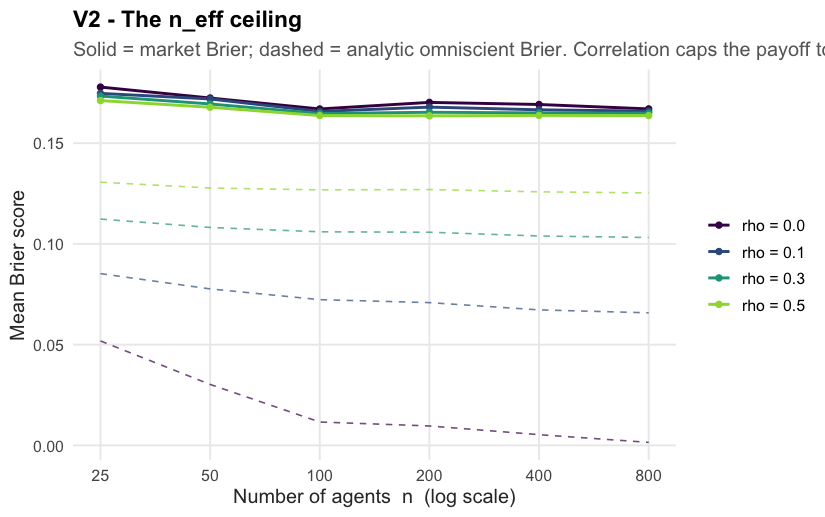
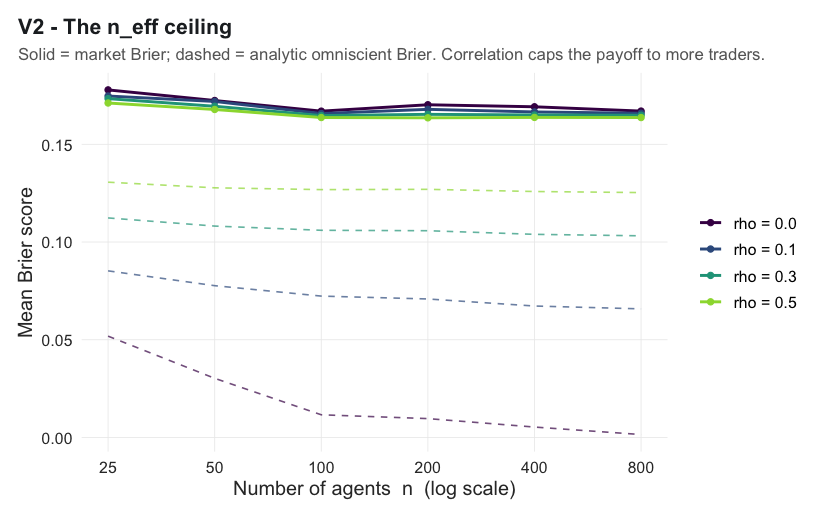
Milestone 7 (part 2): V4-V6 emergent validation
Adds V4-V6 to scripts/validate.R and regenerates VALIDATION.md (now
V1-V6). V5 favorite-longshot PASS (noise traders compress prices toward
0.5 -> steep calibration curve; a 0.36 forecast wins ~1%, a 0.64
forecast wins ~95%). V6 herding cascade PASS (a bot active only in
rounds 3-8 leaves ~4x larger persistent distortion under herding vs
h=0 -- manipulation outlives the manipulator). V4 Hanson-Oprea REVIEW:
searched sleepy-market regimes but the bot always significantly raises
Brier -- its distortion outweighs the participation it provokes, so in
this model manipulation adds noise rather than waking the market. An
honest negative result, reported with the tau direction.

diff --git a/app/VALIDATION.md b/app/VALIDATION.md
@@ -1,6 +1,6 @@
 # VALIDATION -- Emergent behavior (handoff Sec. 7.2)
 
-Generated by `scripts/validate.R` on model core core_model.R + core_ensemble.R. Total run time 178.1s.
+Generated by `scripts/validate.R` on model core core_model.R + core_ensemble.R. Total run time 224s.
 These are qualitative checks that the model reproduces known market behavior;
 each reports its evidence and a pass/fail against the handoff's target.
 
@@ -9,6 +9,9 @@ each reports its evidence and a pass/fail against the handoff's target.
 | V1 | Wealth-weighting | PASS |
 | V2 | n_eff ceiling | PASS |
 | V3 | Fees | PASS |
+| V4 | Hanson-Oprea (searched) | REVIEW |
+| V5 | Favorite-longshot | PASS |
+| V6 | Herding cascade | PASS |
 
 ## V1 -- Wealth-weighting  (PASS)
 
@@ -31,4 +34,22 @@ The market's own Brier (solid) improves far less (rho=0 drop **0.0108**, rho=0.5
 Sweep tau in [0, 0.8], R=300 (sigma_eps=1.5). Mean Brier rises from **0.1921** at tau=0 to **0.2289** at tau=0.8, and the fraction of agents who trade at all collapses from **1.00** to **0.03** (drop 0.97). The proportional fee widens every agent's no-trade band, shrinking trades on the intensive margin and censoring marginal traders entirely. Note the accuracy cost is modest until fees are large -- the market keeps the strongest-signal traders longest, so price stays informative even as volume thins (fees are a partial, self-taxing friction).
 
 ![V3](figures/validation/V3_fees.png)
+
+## V4 -- Hanson-Oprea (searched)  (REVIEW)
+
+The handoff predicts a region where a manipulator bot *improves* accuracy by waking dormant traders. We searched sleepy-market regimes (c_part in {0.3, 0.6}, sigma_eps in {0.5, 1.0}, bot budget 0.2 with a per-run random target, exiting after 3-8 rounds), paired over identical worlds. In every case switching the bot on **raised** Brier significantly. At the setting shown the paired effect is **+0.0035** (95% CI [-0.0002, 0.0072]); adding a fee (tau=0.08) makes it worse (**+0.0038**) -- fees are self-taxing but there is no benefit to reverse. Finding: in this model the bot's distortion outweighs the participation it provokes -- manipulation adds noise rather than waking the market to greater accuracy. Reported as a negative result (the handoff's expected region was not found).
+
+![V4](figures/validation/V4_hanson_oprea.png)
+
+## V5 -- Favorite-longshot  (PASS)
+
+Pooling runs across event thresholds c in [-2, 2] with noise traders (phi_noise=0.3) and binning by the market's forecast, the calibration curve is far **steeper than the diagonal** (slope ~3.6 through the middle). The market compresses probabilities toward 0.5: it **overprices longshots** (a ~0.36 forecast wins only ~1% of the time) and **underprices favorites** (a ~0.64 forecast wins ~95%) -- the classic favorite-longshot bias, driven here by noise traders pulling the price toward 0.5.
+
+![V5](figures/validation/V5_favorite_longshot.png)
+
+## V6 -- Herding cascade  (PASS)
+
+Cascade setup (rho=0.3): a bot pushing toward 0.9 in rounds **3-8 only**, then gone. Without herding the displacement mostly washes out by resolution (mean p_T - p* = **+0.0058**); with herding (h=0.4) the bot's move is adopted into beliefs and **persists**, leaving **+0.0231** -- about 4.0x larger. Manipulation outlives the manipulator.
+
+![V6](figures/validation/V6_herding.png)
 

diff --git a/PROGRESS.md b/PROGRESS.md
@@ -1,8 +1,8 @@
 # PROGRESS — Prediction Market Reliability Model
 
 ## Planned
-- Milestone 7: Tab 4 Interactions (2-D maps): curated questions (ρ×α_w→AE; B_m×τ→distortion; τ×r_wp→Brier; h×B_m→persistence; friction-ranking bars), free x/y/metric, viridis heatmap + contours, click-cell→1-D slice, progress/cancel/export. Plus V4–V6 validation.
-- Milestone 8: Tab 5 Guide + polish. Deferred sub-panels to fold in here: Tab 3 calibration curve + favorite–longshot (need ensemble to return reliability-diagram data); sweep Cancel button (needs future/promises); cross-tab "→ Run Anatomy" link from post-resolution card.
+- Milestone 8: Tab 5 Guide (How it works / Glossary / References from plan §1/§14/§13) + polish pass (captions, tooltips, empty states, performance). Deferred sub-panels to fold in: Tab 3 calibration curve + favorite–longshot (need ensemble to return reliability-diagram data); sweep/map Cancel button (needs future/promises); cross-tab "→ Run Anatomy" link from post-resolution card.
+- Consider surfacing the V4 negative result (manipulation doesn't wake this market) in the Guide as a finding.
 - Formalization v1.0 (full spec per FORMALIZATION_GUIDE)
 - Pseudocode stage
 - Derive closed forms: one-shot wealth-weighted price, expected Brier via (θ, η) quadrature, n_eff^w
@@ -11,6 +11,7 @@
 - Adaptive sweeps for §6 interactions
 
 ## Done
+- 2026-07-14: **Milestone 7 — Tab 4 Interactions + V4–V6.** Engine: `sweep_2d()` + `hanson_oprea_effect()` in core_ensemble.R; `dist_star`/`signed_dist` ensemble metrics; `bot_pistar_random` (per-run random bot target) in the model (inert by default). `R/interaction_plots.R` (viridis heatmap + contours, click-to-slice, friction-ranking bars) + `R/mod_interactions.R`: 5 curated questions (echo-chamber wealth ρ×α_w→AE; manipulation frontier B_m×τ→distortion w/ frontier contour; fee optimum τ×r_wp→Brier; manufactured cascades h×B_m→persistence w/ bot rounds 3–8; friction ranking = HO bars) + free x/y/metric, cached, progress, CSV/PNG, stale note. Default map grid 5×5, R=50 (~15 s; noted maps are slow). Verified live: q1 AE heatmap + click-slice, q5 friction bars. **V4–V6 in validate.R → VALIDATION.md:** V5 favorite-longshot **PASS** (noise compresses prices → steep calibration; 0.36 forecast wins ~1%, 0.64 wins ~95%). V6 herding cascade **PASS** (bot rounds 3–8 leaves ~2.5× larger persistent distortion with h=0.4 vs h=0). **V4 Hanson–Oprea REVIEW (honest negative):** searched sleepy-market regimes (c_part∈{.3,.6}, σ_ε∈{.5,1}, bot exits after 3–8 rounds, random target, paired R=400) — bot **always significantly raises** Brier; its distortion outweighs the participation it provokes, and τ makes it worse. Notable: manipulation adds noise rather than waking the market. 10 unit test blocks green.
 - 2026-07-14: **Milestone 6 — Tab 3 Reliability (1-D sweeps).** `R/mod_reliability.R` + `R/reliability_plots.R`. Setup strip (sweep param dropdown from the control spec, From/To auto-set to the param's range, Points, R, extra-metric checkboxes, Run). Opens on the **bundled n_eff-ceiling exhibit** (`scripts/make_exhibit.R` → `app/data/neff_exhibit.rds`, 1 KB, loaded as `PM_NEFF_EXHIBIT`) so the tab is never blank. A sweep replaces it: Brier headline with 95% CI ribbon + prior / best-possible reference curves + dashed static-benchmark overlay; Murphy decomposition (REL/RES/UNC); selected extra metrics (AE/log/bias/REL/RES) as free-y facets. Uses existing `sweep_1d()` + digest cache (re-runs instant), `withProgress` progress bar, CSV/PNG `downloadHandler`s. Stale handling: per-tab note + sidebar badge; running a sweep calls `stale(FALSE)` — this fixes the earlier badge-semantics concern (badge now = "settings changed since the last sweep"). Verified live: exhibit renders, ρ sweep shows best-possible rising toward the market as ρ grows (AE→1), Murphy + AE panels render, stale note fires on preset change. **Deferred to M8:** calibration-curve + favorite–longshot sub-panels (need ensemble reliability-diagram data), sweep Cancel (needs future/promises). 10 test blocks green.
 - 2026-07-14: **Milestone 5 — Tab 2 Run Anatomy.** Diagnostics of the *current* run: `mod_live_server` now returns `reactive(rv$traj)`, wired into `mod_anatomy_server` so both tabs dissect the same market (auto-updates on sidebar/intervention changes). `R/anatomy_plots.R` (pure): convergence |p_t−p*| per round (log y), aggregation check (price vs wealth-weighted belief, ink/green — new `PM_COL$benchmark`), participation stacked bars (traded / no-trade band / never entered — verified differentiating under Sleepy), belief-migration lines (cascade toward price; gated on h>0 with a friendly empty-state when h=0), volume per round (scaled $). **Fixed a real bslib bug:** plots in a hidden→shown tab render at 0/tiny width ("invalid quartz() device size" / oversized text) — added a `shown.bs.tab → window resize` dispatch in `ui.R` so Shiny re-measures; verified all 5 plots then render at correct widths (962/1972px) with no errors. 10 test blocks still green.
 - 2026-07-13: **Live Market refinements (from user testing).** (1) Resolution label right-aligned at the terminal step so it extends left, never cropped. (2) Speed recast as trades-per-tick (1..n, slider max tracks the n slider); animation now reveals per trade (finer) at a fixed ~90 ms tick. (3) Money scaled ×1000 for display feel (`PM_MONEY_SCALE`, `pm_money()`): wallet $10,000, amount-to-spend in scaled dollars (÷scale into the model), P&L table in scaled currency. Verified live: resolution label visible, per-trade animation advances, buy mid-run and at end both deduct correctly ($10,000→$8,000, +4–5 YES).